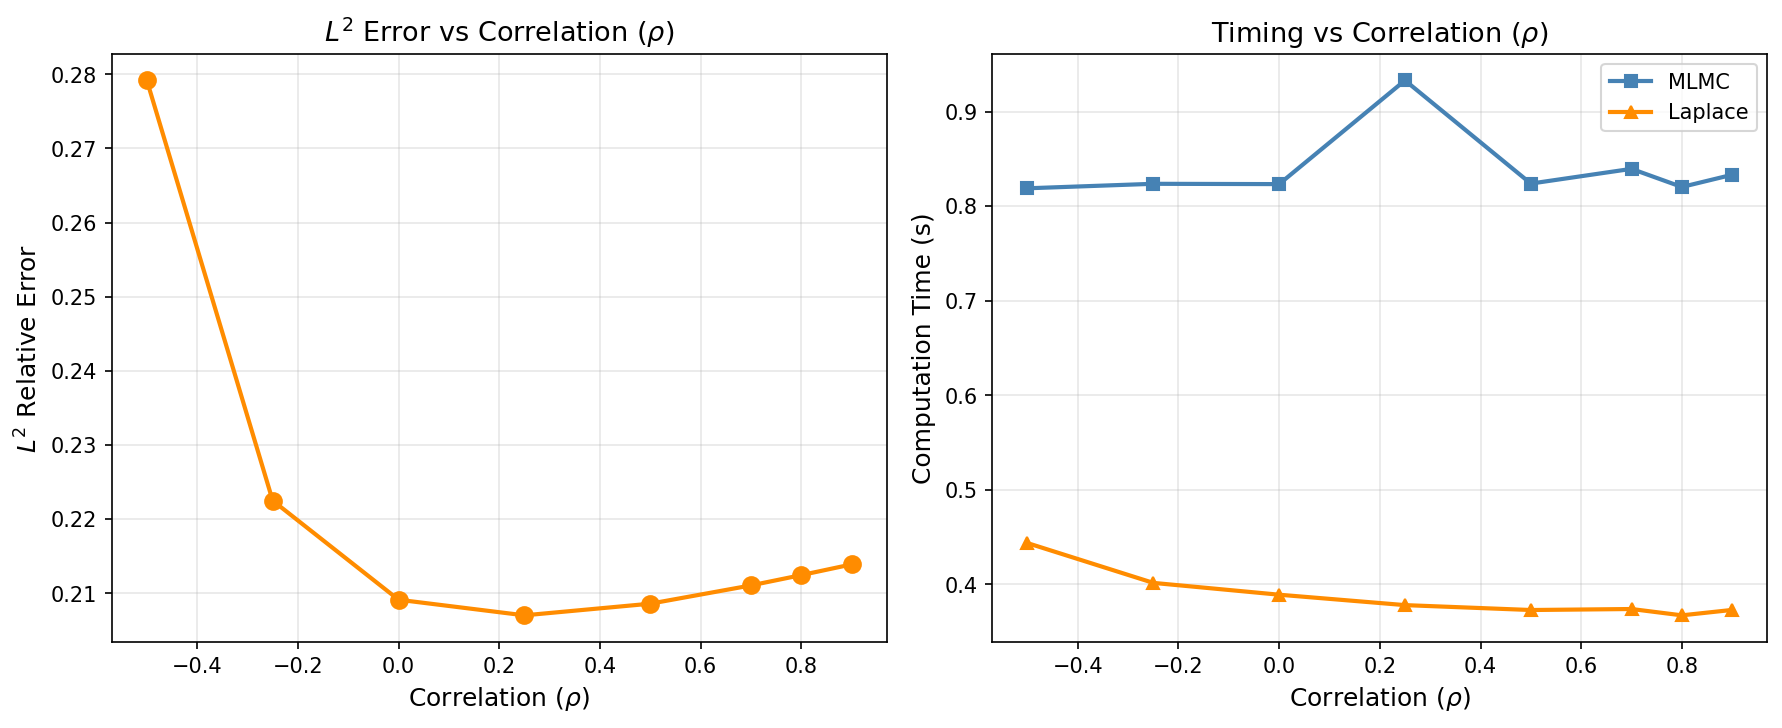
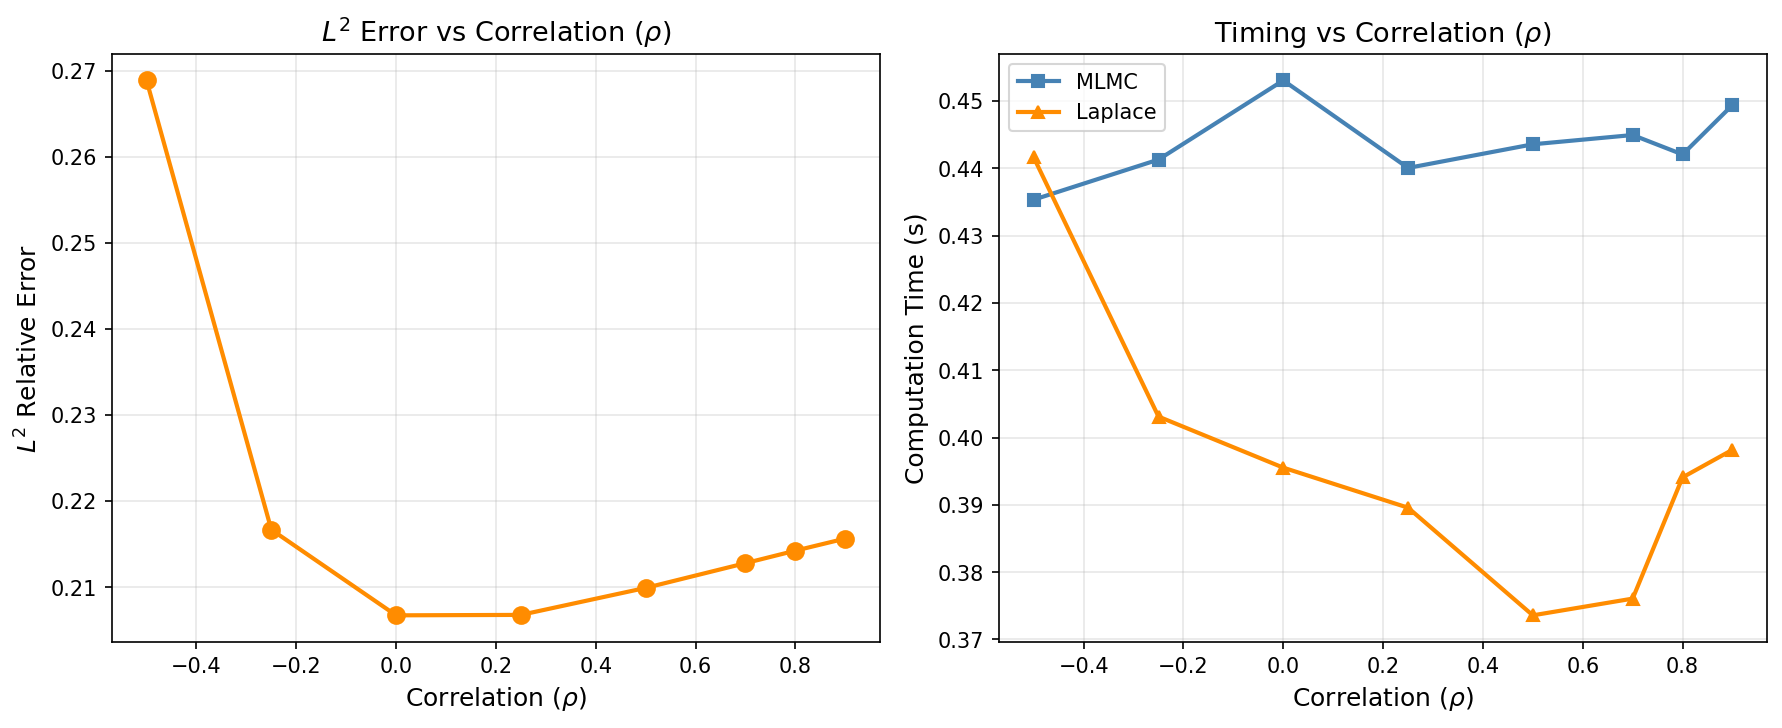
Updated results

diff --git a/Comparison_Between_Methods/results/tables/exp5_parameter_sensitivity.md b/Comparison_Between_Methods/results/tables/exp5_parameter_sensitivity.md
@@ -4,63 +4,63 @@
 
 | Value | L2 Error | L∞ Error | MLMC Time (s) | Laplace Time (s) |
 |-------|----------|----------|---------------|------------------|
-| 0.05 | 0.5627 | 1.7650 | 0.83 | 0.38 |
-| 0.10 | 0.1018 | 0.1643 | 0.82 | 0.35 |
-| 0.15 | 0.1773 | 0.3022 | 0.86 | 0.35 |
-| 0.20 | 0.2069 | 0.3982 | 0.84 | 0.36 |
-| 0.25 | 0.2222 | 0.4446 | 0.85 | 0.37 |
-| 0.30 | 0.2329 | 0.4748 | 0.82 | 0.35 |
-| 0.40 | 0.2513 | 0.5305 | 0.83 | 0.35 |
-| 0.50 | 0.2709 | 0.5972 | 0.82 | 0.35 |
+| 0.05 | 0.5585 | 1.7486 | 0.43 | 0.40 |
+| 0.10 | 0.1021 | 0.1680 | 0.42 | 0.36 |
+| 0.15 | 0.1777 | 0.3048 | 0.41 | 0.35 |
+| 0.20 | 0.2089 | 0.4054 | 0.42 | 0.35 |
+| 0.25 | 0.2264 | 0.4576 | 0.42 | 0.34 |
+| 0.30 | 0.2401 | 0.4955 | 0.42 | 0.34 |
+| 0.40 | 0.2674 | 0.5670 | 0.43 | 0.35 |
+| 0.50 | 0.3012 | 0.6598 | 0.43 | 0.35 |
 
 ## Correlation ($\rho$)
 
 | Value | L2 Error | L∞ Error | MLMC Time (s) | Laplace Time (s) |
 |-------|----------|----------|---------------|------------------|
-| -0.50 | 0.2792 | 0.5884 | 0.82 | 0.44 |
-| -0.25 | 0.2225 | 0.4238 | 0.82 | 0.40 |
-| 0.00 | 0.2091 | 0.3916 | 0.82 | 0.39 |
-| 0.25 | 0.2070 | 0.3886 | 0.93 | 0.38 |
-| 0.50 | 0.2086 | 0.3961 | 0.82 | 0.37 |
-| 0.70 | 0.2111 | 0.4054 | 0.84 | 0.37 |
-| 0.80 | 0.2124 | 0.4101 | 0.82 | 0.37 |
-| 0.90 | 0.2139 | 0.4149 | 0.83 | 0.37 |
+| -0.50 | 0.2689 | 0.5398 | 0.44 | 0.44 |
+| -0.25 | 0.2167 | 0.4027 | 0.44 | 0.40 |
+| 0.00 | 0.2067 | 0.3843 | 0.45 | 0.40 |
+| 0.25 | 0.2068 | 0.3898 | 0.44 | 0.39 |
+| 0.50 | 0.2099 | 0.4024 | 0.44 | 0.37 |
+| 0.70 | 0.2128 | 0.4132 | 0.44 | 0.38 |
+| 0.80 | 0.2142 | 0.4184 | 0.44 | 0.39 |
+| 0.90 | 0.2157 | 0.4233 | 0.45 | 0.40 |
 
 ## Interest Rate (r)
 
 | Value | L2 Error | L∞ Error | MLMC Time (s) | Laplace Time (s) |
 |-------|----------|----------|---------------|------------------|
-| 0.00 | 0.2183 | 0.4363 | 0.82 | 0.40 |
-| 0.02 | 0.2133 | 0.4164 | 0.83 | 0.40 |
-| 0.05 | 0.2086 | 0.3961 | 0.84 | 0.37 |
-| 0.08 | 0.2062 | 0.3839 | 0.84 | 0.37 |
-| 0.10 | 0.2055 | 0.3800 | 0.90 | 0.39 |
-| 0.12 | 0.2052 | 0.3774 | 0.84 | 0.37 |
-| 0.15 | 0.2049 | 0.3783 | 0.85 | 0.39 |
+| 0.00 | 0.2193 | 0.4382 | 0.50 | 0.39 |
+| 0.02 | 0.2145 | 0.4202 | 0.44 | 0.39 |
+| 0.05 | 0.2099 | 0.4024 | 0.44 | 0.40 |
+| 0.08 | 0.2073 | 0.3921 | 0.49 | 0.40 |
+| 0.10 | 0.2063 | 0.3888 | 0.45 | 0.38 |
+| 0.12 | 0.2057 | 0.3868 | 0.44 | 0.39 |
+| 0.15 | 0.2048 | 0.3880 | 0.44 | 0.37 |
 
 ## Maturity (T)
 
 | Value | L2 Error | L∞ Error | MLMC Time (s) | Laplace Time (s) |
 |-------|----------|----------|---------------|------------------|
-| 0.10 | 0.1071 | 0.1660 | 0.18 | 0.38 |
-| 0.25 | 0.1720 | 0.2856 | 0.42 | 0.38 |
-| 0.50 | 0.2086 | 0.3961 | 0.86 | 0.40 |
-| 0.75 | 0.2289 | 0.4562 | 1.30 | 0.39 |
-| 1.00 | 0.2354 | 0.4691 | 1.72 | 0.39 |
-| 1.50 | 0.2383 | 0.4745 | 2.65 | 0.40 |
-| 2.00 | 0.2507 | 0.5105 | 3.46 | 0.40 |
+| 0.10 | 2.0000 | 4.4776 | 0.10 | 0.41 |
+| 0.25 | 0.1711 | 0.2864 | 0.24 | 0.39 |
+| 0.50 | 0.2099 | 0.4024 | 0.46 | 0.40 |
+| 0.75 | 0.2227 | 0.4392 | 0.66 | 0.37 |
+| 1.00 | 0.2317 | 0.4595 | 0.93 | 0.40 |
+| 1.50 | 0.2477 | 0.5041 | 1.34 | 0.36 |
+| 2.00 | 0.2498 | 0.4862 | 1.72 | 0.36 |
 
 ## Moneyness (K/S₀)
 
 | Value | L2 Error | L∞ Error | MLMC Time (s) | Laplace Time (s) |
 |-------|----------|----------|---------------|------------------|
-| 0.80 | 0.2086 | 0.3961 | 0.87 | 0.39 |
-| 0.90 | 0.2086 | 0.3961 | 0.84 | 0.42 |
-| 0.95 | 0.2086 | 0.3961 | 0.86 | 0.40 |
-| 1.00 | 0.2086 | 0.3961 | 0.84 | 0.37 |
-| 1.05 | 0.2086 | 0.3961 | 0.84 | 0.39 |
-| 1.10 | 0.2086 | 0.3961 | 0.83 | 0.37 |
-| 1.20 | 0.2086 | 0.3961 | 0.83 | 0.37 |
+| 0.80 | 0.2099 | 0.4024 | 0.44 | 0.37 |
+| 0.90 | 0.2099 | 0.4024 | 0.44 | 0.37 |
+| 0.95 | 0.2099 | 0.4024 | 0.44 | 0.37 |
+| 1.00 | 0.2099 | 0.4024 | 0.44 | 0.37 |
+| 1.05 | 0.2099 | 0.4024 | 0.44 | 0.37 |
+| 1.10 | 0.2099 | 0.4024 | 0.44 | 0.37 |
+| 1.20 | 0.2099 | 0.4024 | 0.44 | 0.37 |
 
 ## Key Observations
 
